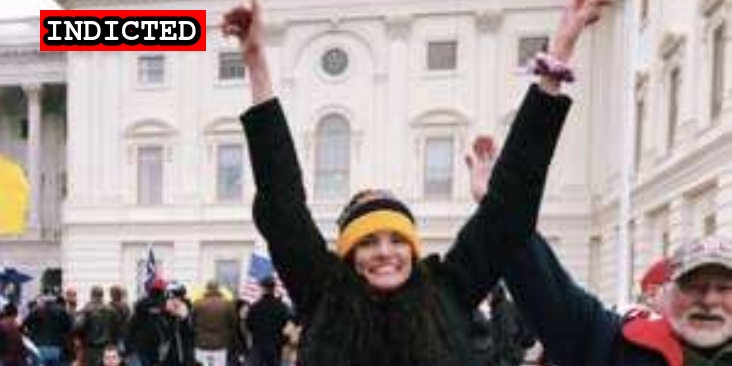
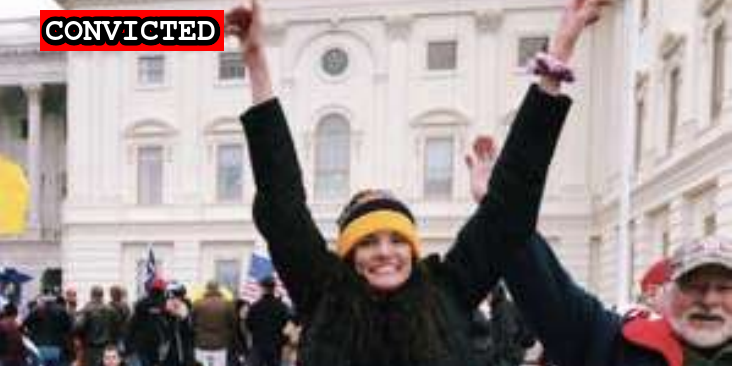
Gracyn Courtwright plea

Changed region(s): [[0.0301, 0.0301, 0.3306, 0.1503]]

diff --git a/docs/_suspects/gracyn-courtright.md b/docs/_suspects/gracyn-courtright.md
@@ -3,13 +3,13 @@ name: Gracyn Courtright
 lastName: Courtright
 aka:
 residence: West Virginia
-status: Indicted
+status: Convicted
 date: 2021-01-16
 charged: 2021-01-16
 indicted: 2021-02-03
-convicted: 
-sentenced: 
-dismissed: 
+convicted: 2021-08-30
+sentenced:
+dismissed:
 deceased:
 age: 23
 occupation:
@@ -29,6 +29,11 @@ author: seditiontrack
 layout: suspect
 published: true
 caseNumber: 1:21-cr-72
+charges:
+- code: 18 USC § 1752(a)(1)
+  title: Entering a restricted building or grounds
+  url: https://www.law.cornell.edu/uscode/text/18/1752
+  felony: false
 ---
 - [News Report](https://www.thedailybeast.com/latest-round-of-capitol-riot-arrests-outed-themselves-on-social-media)
 - [Complaint](https://www.courtlistener.com/recap/gov.uscourts.dcd.226140/gov.uscourts.dcd.226140.1.1.pdf?fbclid=IwAR3-9Irq5mTP7Byu1S7TYTAzPr0yHYf1q9x5jEu_9EcltQfOaBb7DsjvJHI)
